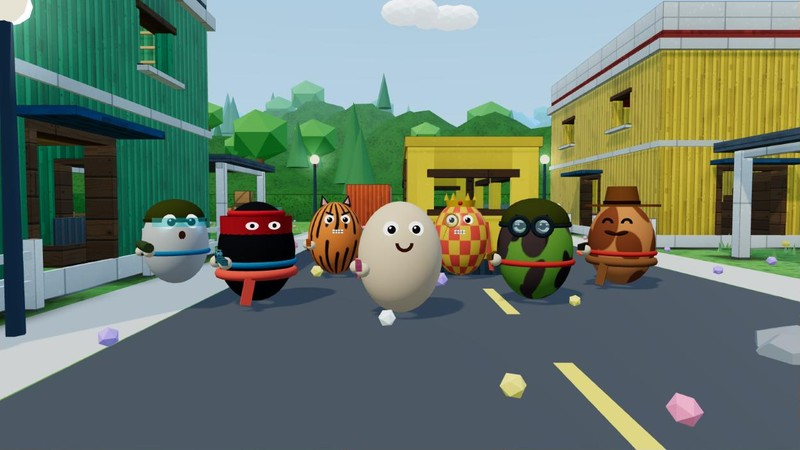
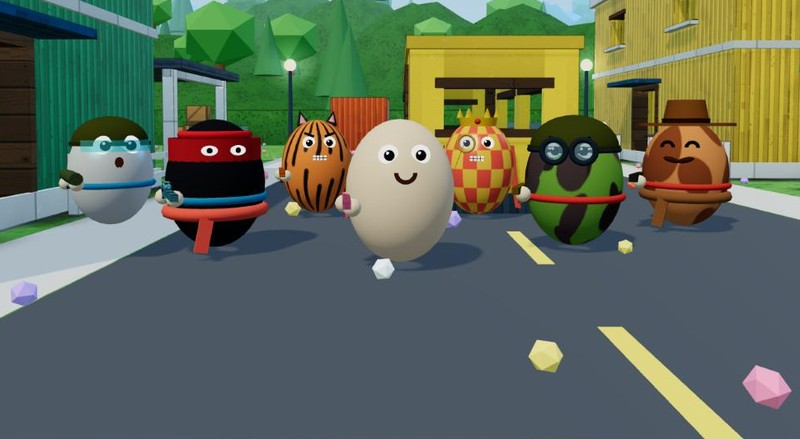
EGG WARS: imagen de los huevos más cerca
Claude-Session: https://claude.ai/code/session_0116yxjK2tAePYdFBF3xwcAp

diff --git a/index.html b/index.html
@@ -101,7 +101,7 @@
 <div class="links"><a class="main" href="proyectos/pauta.html"><span class="es">Ver la guía completa</span><span class="en">Read the full guide</span></a><a href="https://campayoo.github.io/EBAUTrainer/" target="_blank" rel="noopener"><span class="es">Web del proyecto</span><span class="en">Project website</span></a><a href="https://campayoo.github.io/EBAUTrainer/app/" target="_blank" rel="noopener"><span class="es">Probar la app</span><span class="en">Try the app</span></a><a href="https://github.com/campayoo/EBAUTrainer" target="_blank" rel="noopener"><span class="es">Código</span><span class="en">Code</span></a></div>
 </div></article>
 <article class="proj p-egg rv">
-<a class="art" href="proyectos/eggwars.html" tabindex="-1" aria-hidden="true"><img src="img/eg-huevos.jpg" alt="Huevos de EGG WARS con sus armas, sombreros y camuflajes en una calle del juego" loading="lazy" width="800" height="450"></a>
+<a class="art" href="proyectos/eggwars.html" tabindex="-1" aria-hidden="true"><img src="img/eg-huevos.jpg?v=2" alt="Huevos de EGG WARS con sus armas, sombreros y camuflajes en una calle del juego" loading="lazy" width="800" height="439"></a>
 <div class="body">
 <h3>EGG WARS</h3>
 <div class="stack">Three.js · Node.js · Socket.io · PostgreSQL</div>
